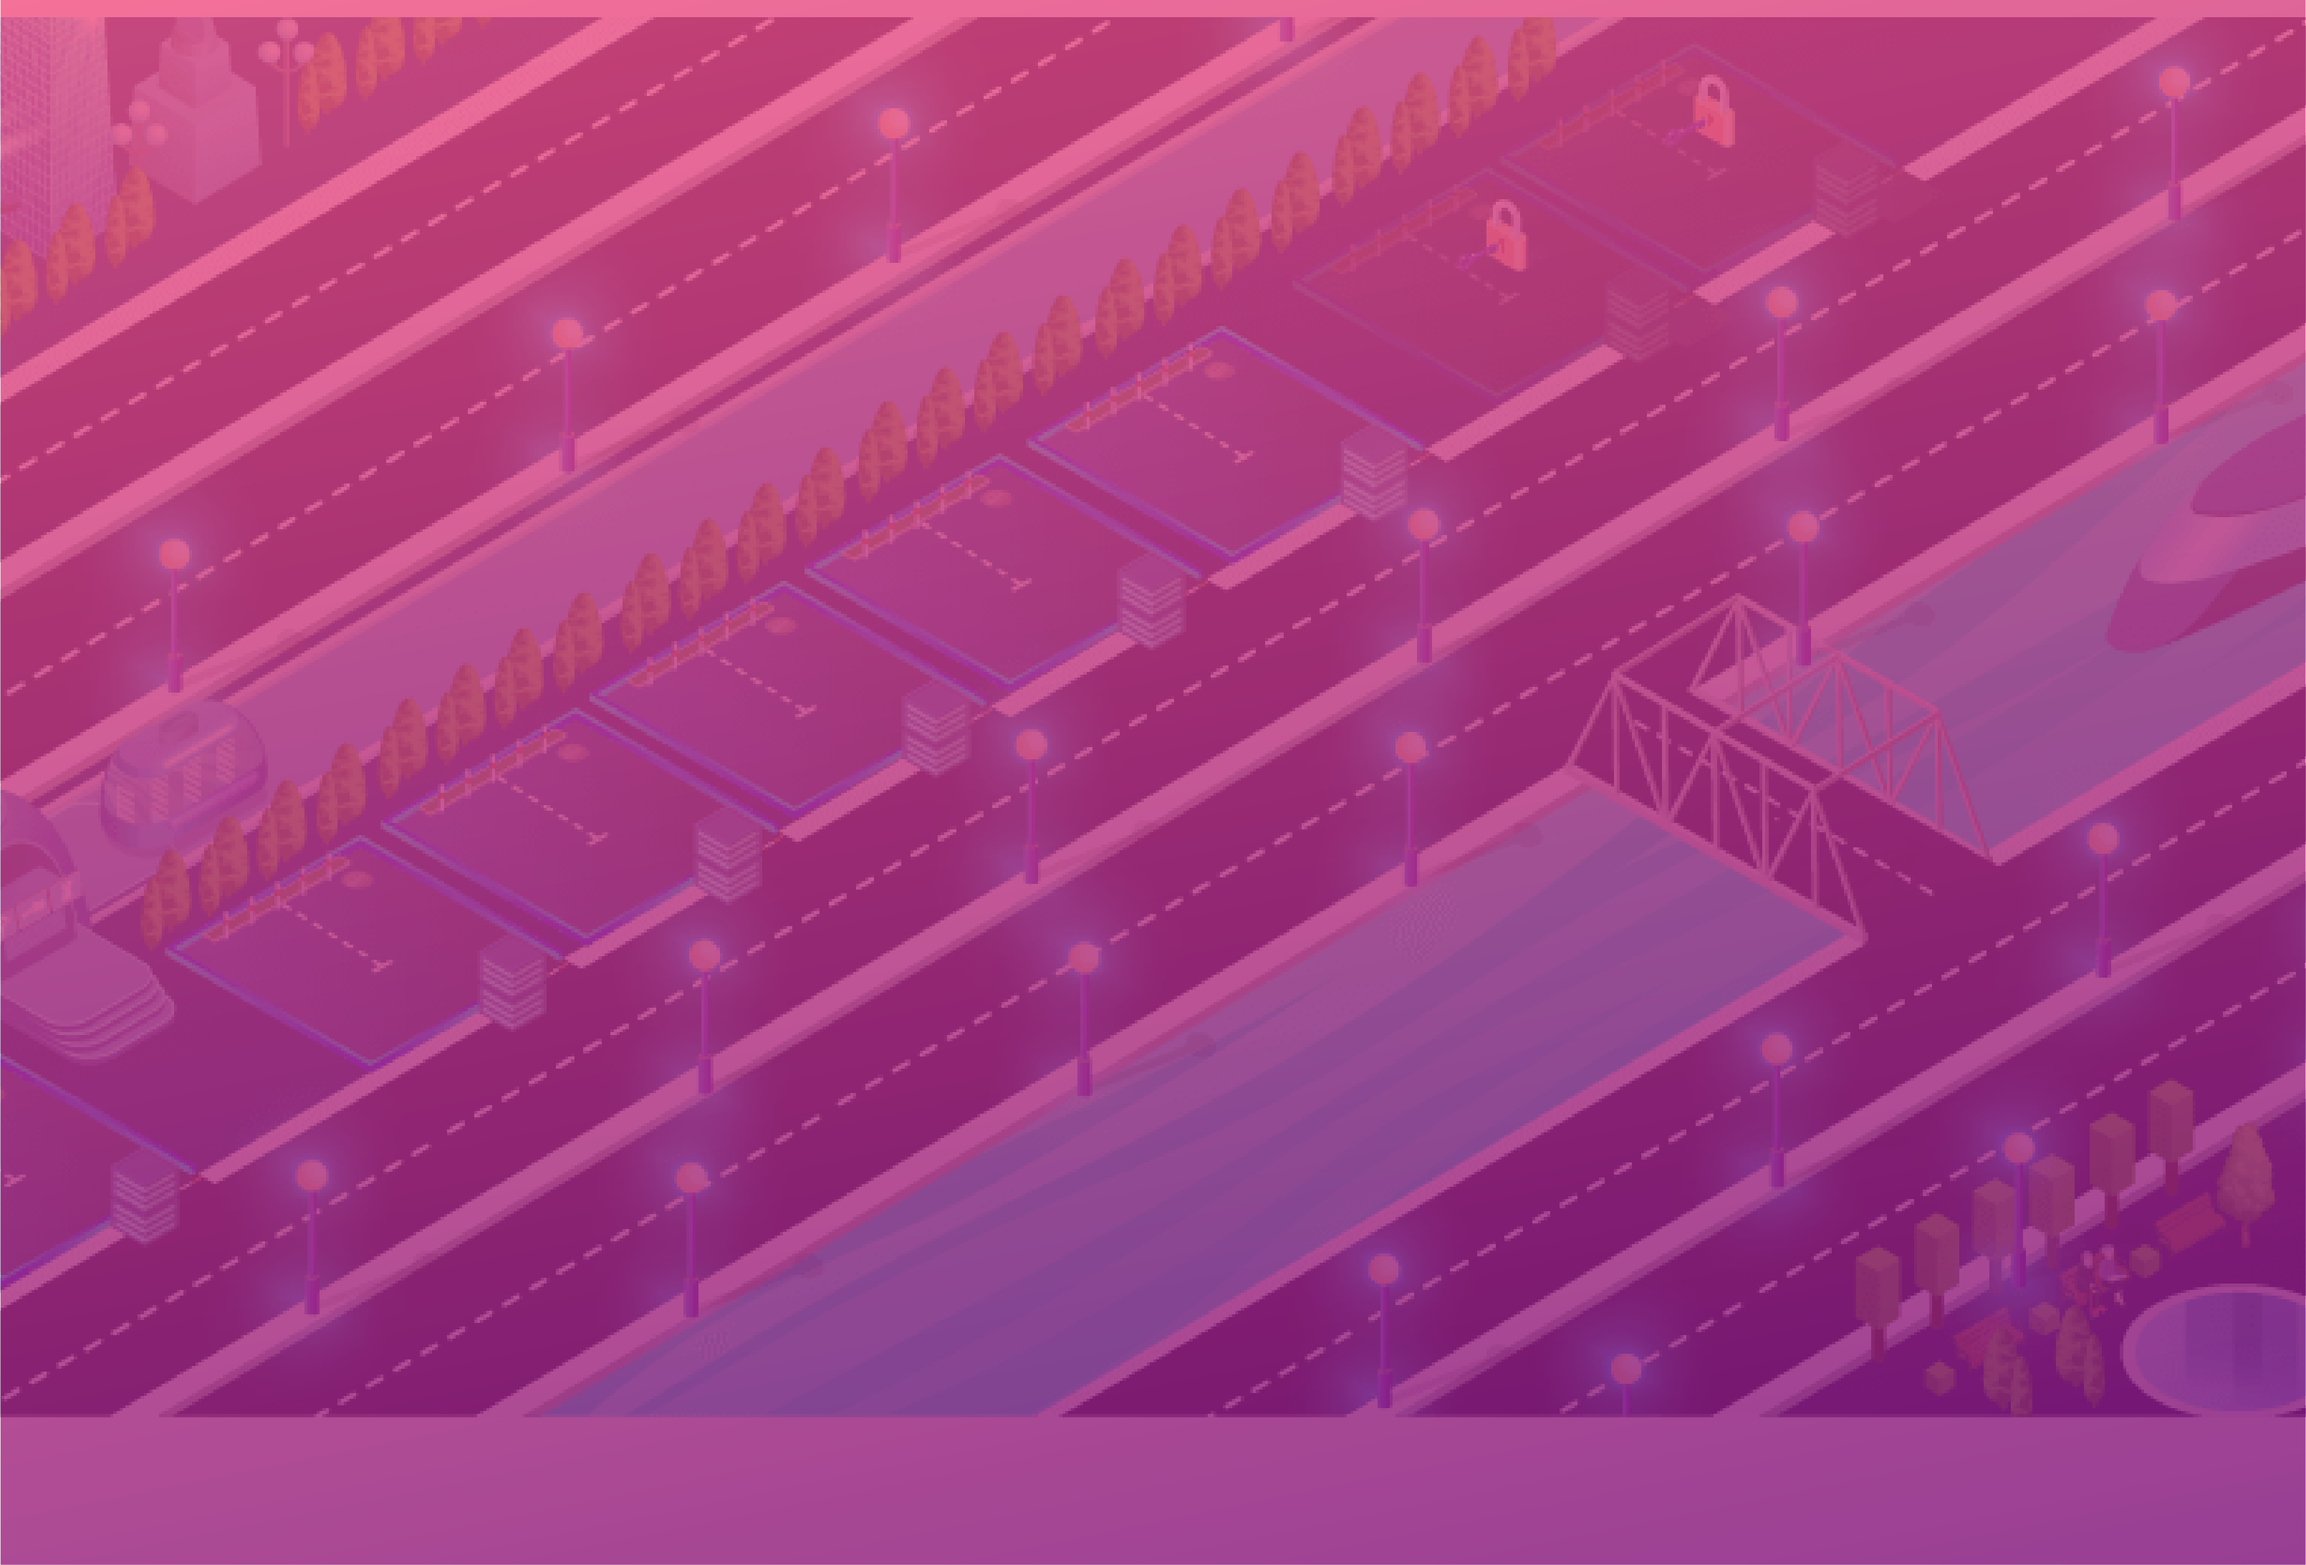
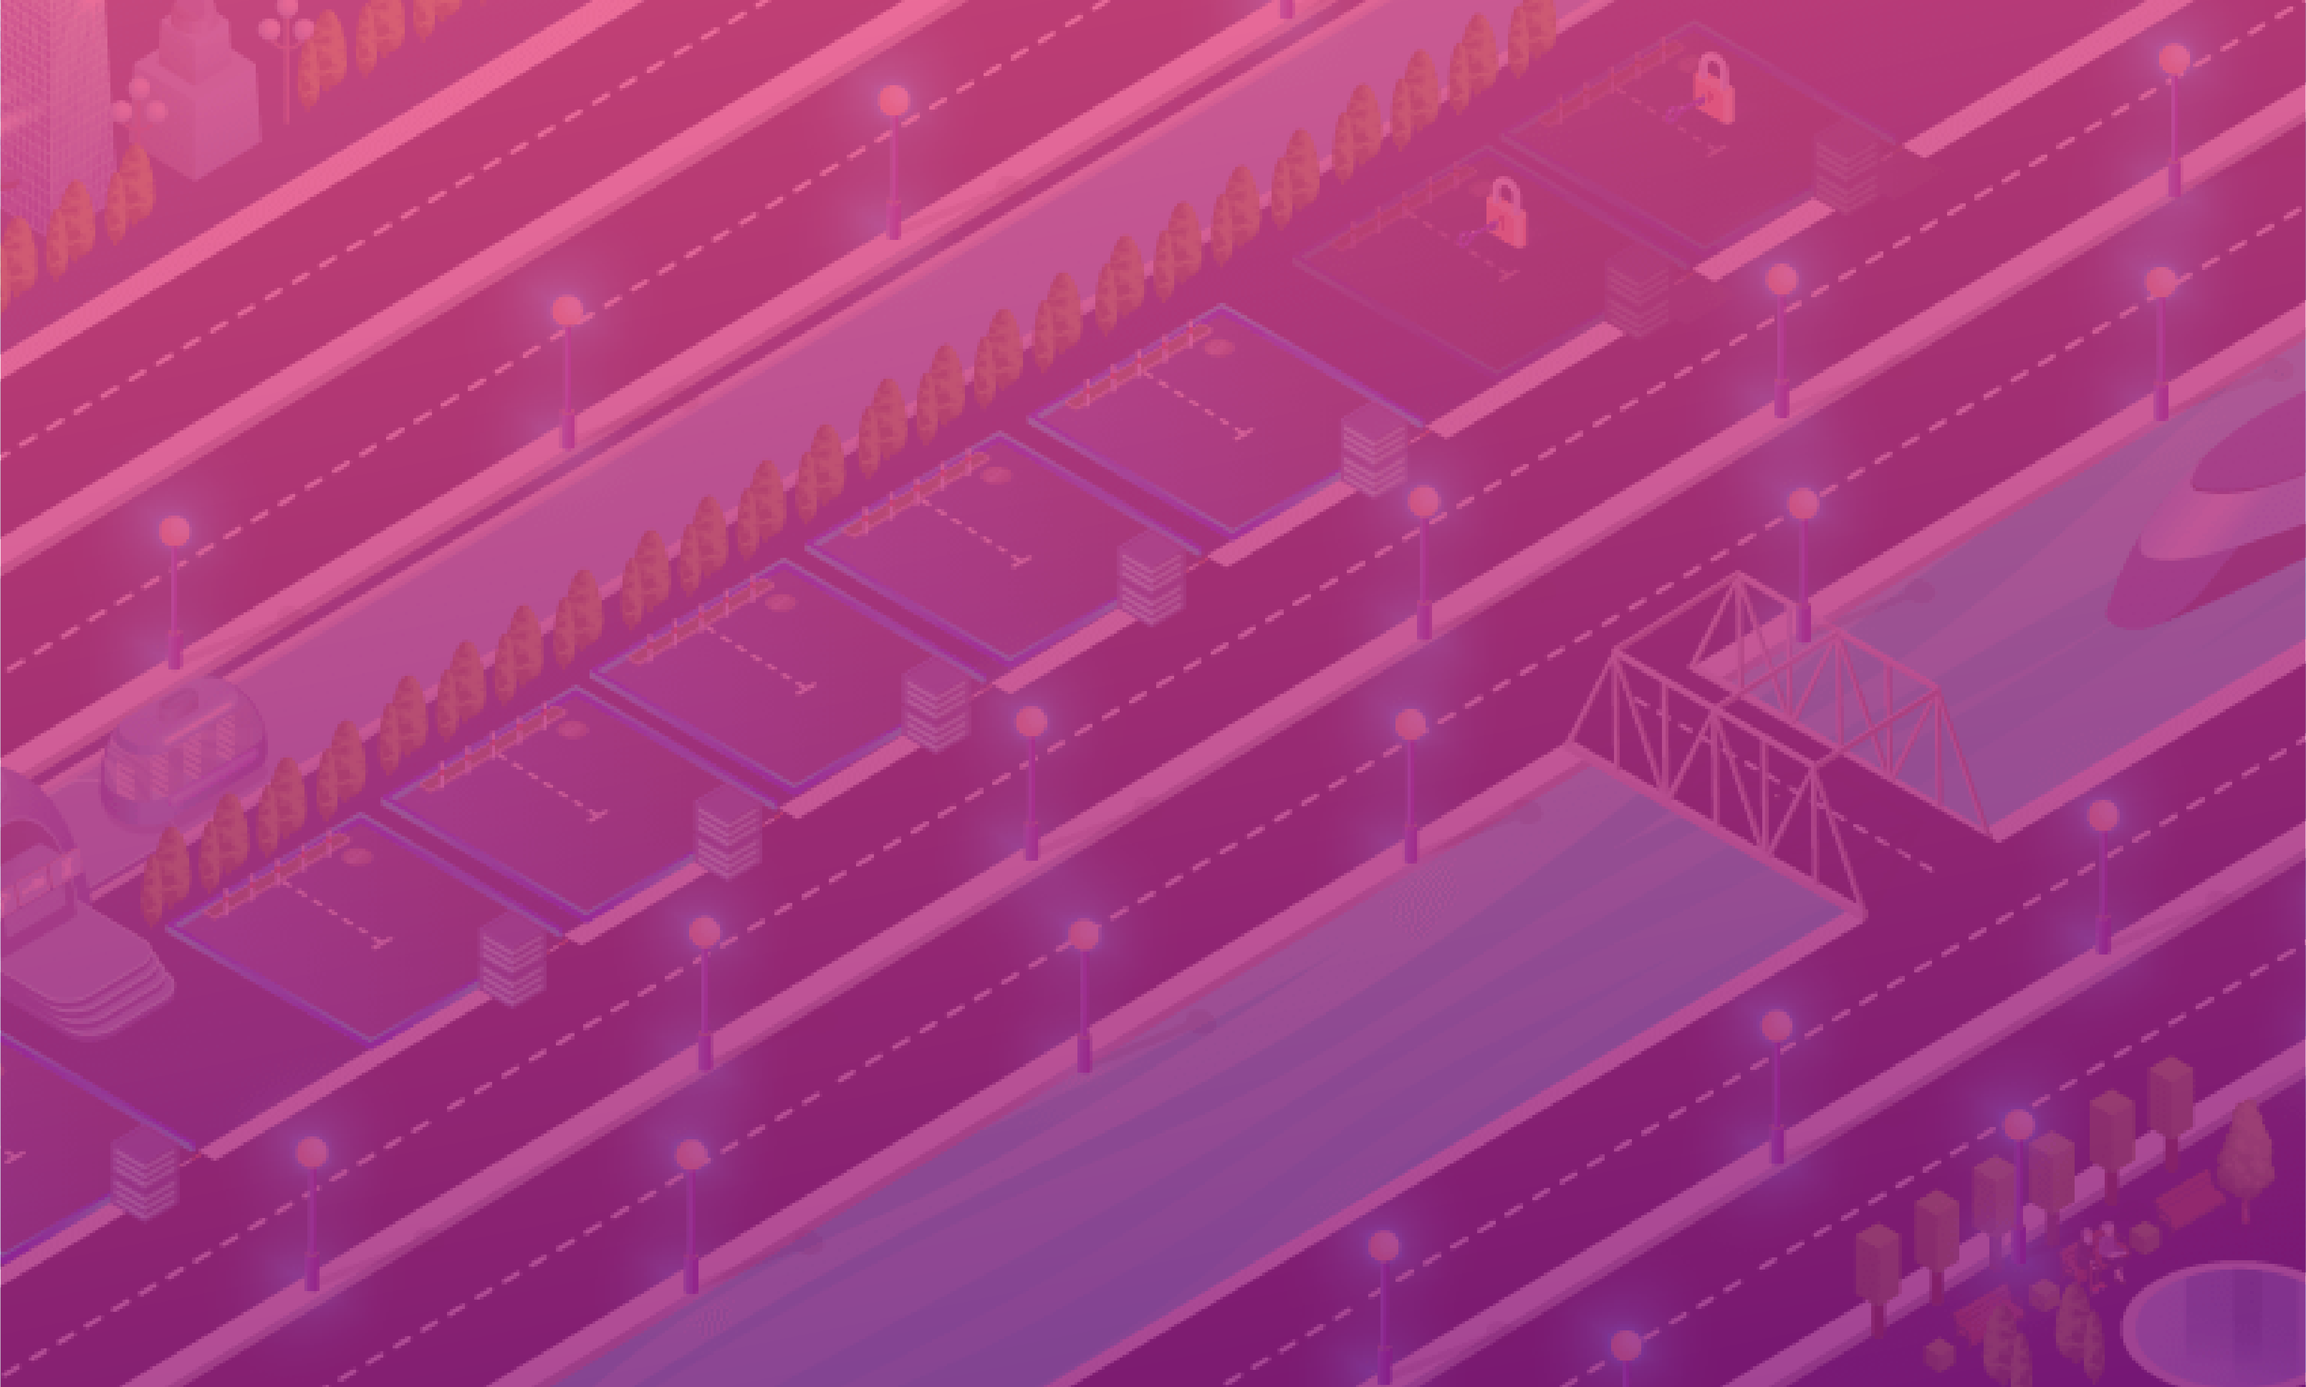
TFF Road Map

diff --git a/css/style.css b/css/style.css
@@ -600,3 +600,12 @@ main .content-center .presale {
   top: 110%;
   left: 50%;
 }
+/* TFF RoadMap */
+.content-center .tff_road .map_tff{
+  position: absolute;
+  /* background-image: url(/assets/Recurso47.png); */
+  width: 100%;
+  height: 100vh;
+  top: 880%;
+  z-index: -100;
+}

diff --git a/index.html b/index.html
@@ -279,6 +279,9 @@ viaje
           </div>
           </section>
       </div>
+      <div class="tff_road">
+        <div class="map_tff"></div>
+      </div>
       <div class="cloudz">
         <span class="cloud-one">
           <svg
